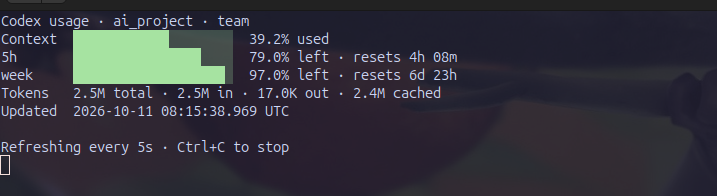
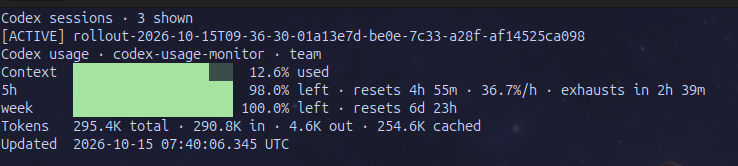
Add quota burn-rate forecasting

Changed region(s): [[0.0, 0.0602, 0.9512, 0.9036], [0.0, 0.6325, 0.0614, 0.6928], [0.0, 0.0, 0.0921, 0.0301]]

diff --git a/codex_usage.py b/codex_usage.py
@@ -9,6 +9,7 @@ import os
 import sys
 import time
 from dataclasses import asdict, dataclass
+from datetime import datetime
 from pathlib import Path
 from typing import Any, Iterable
 
@@ -19,6 +20,8 @@ class Window:
     used_percent: float
     window_minutes: int
     resets_at: int | None
+    burn_rate_percent_per_hour: float | None = None
+    estimated_exhaustion_at: int | None = None
 
     @property
     def remaining_percent(self) -> float:
@@ -69,11 +72,51 @@ def json_lines(path: Path) -> Iterable[dict[str, Any]]:
         return
 
 
+def timestamp_seconds(value: str | None) -> float | None:
+    if not value:
+        return None
+    try:
+        return datetime.fromisoformat(value.replace("Z", "+00:00")).timestamp()
+    except (ValueError, TypeError):
+        return None
+
+
+def burn_rate(
+    samples: list[tuple[float, float, int | None]],
+) -> tuple[float | None, int | None]:
+    """Estimate percentage points/hour and exhaustion time for one quota window."""
+    if len(samples) < 2:
+        return None, None
+    latest_time, latest_used, latest_reset = samples[-1]
+    previous = next(
+        (
+            sample
+            for sample in samples
+            if sample[2] == latest_reset
+            and sample[0] < latest_time
+            and sample[1] <= latest_used
+        ),
+        None,
+    )
+    if previous is None:
+        return None, None
+    elapsed_hours = (latest_time - previous[0]) / 3600
+    rate = (latest_used - previous[1]) / elapsed_hours
+    if rate <= 0:
+        return None, None
+    exhaustion_at = int(latest_time + (100.0 - latest_used) / rate * 3600)
+    return rate, exhaustion_at
+
+
 def usage_from_file(path: Path) -> Usage | None:
     project = None
     latest: dict[str, Any] | None = None
     observed_at = ""
     saw_session = False
+    rate_samples: dict[str, list[tuple[float, float, int | None]]] = {
+        "primary": [],
+        "secondary": [],
+    }
     for record in json_lines(path):
         payload = record.get("payload", {})
         if record.get("type") == "session_meta":
@@ -83,6 +126,18 @@ def usage_from_file(path: Path) -> Usage | None:
         if record.get("type") == "event_msg" and payload.get("type") == "token_count":
             latest = payload
             observed_at = record.get("timestamp", observed_at)
+            observed_seconds = timestamp_seconds(record.get("timestamp"))
+            if observed_seconds is not None:
+                for key in rate_samples:
+                    value = (payload.get("rate_limits") or {}).get(key)
+                    if value:
+                        rate_samples[key].append(
+                            (
+                                observed_seconds,
+                                float(value.get("used_percent") or 0),
+                                value.get("resets_at"),
+                            )
+                        )
     if latest is None and not saw_session:
         return None
 
@@ -106,12 +161,15 @@ def usage_from_file(path: Path) -> Usage | None:
             continue
         minutes = int(value.get("window_minutes") or 0)
         label = "5h" if minutes == 300 else "week" if minutes == 10080 else f"{minutes}m"
+        rate, exhaustion_at = burn_rate(rate_samples[key])
         windows.append(
             Window(
                 label=label,
                 used_percent=float(value.get("used_percent") or 0),
                 window_minutes=minutes,
                 resets_at=value.get("resets_at"),
+                burn_rate_percent_per_hour=rate,
+                estimated_exhaustion_at=exhaustion_at,
             )
         )
     return Usage(
@@ -163,6 +221,15 @@ def countdown(timestamp: int | None, now: float | None = None) -> str:
     return f"{days}d {hours}h" if days else f"{hours}h {minutes:02d}m"
 
 
+def forecast(window: Window, now: float | None = None) -> str | None:
+    if window.burn_rate_percent_per_hour is None or window.estimated_exhaustion_at is None:
+        return None
+    rate = window.burn_rate_percent_per_hour
+    if window.resets_at and window.estimated_exhaustion_at >= window.resets_at:
+        return f"{rate:.1f}%/h · pace lasts to reset"
+    return f"{rate:.1f}%/h · exhausts in {countdown(window.estimated_exhaustion_at, now)}"
+
+
 def human_tokens(value: int) -> str:
     if value >= 1_000_000:
         return f"{value / 1_000_000:.1f}M"
@@ -180,9 +247,11 @@ def render(usage: Usage, ansi: bool = True) -> str:
             f"Context  {bar(remaining, ansi=ansi)} {usage.context_used_percent:5.1f}% used"
         )
     for window in usage.windows:
+        projection = forecast(window)
         lines.append(
             f"{window.label:<8} {bar(window.remaining_percent, ansi=ansi)} "
             f"{window.remaining_percent:5.1f}% left · resets {countdown(window.resets_at)}"
+            + (f" · {projection}" if projection else "")
         )
     lines.append(
         "Tokens   "

diff --git a/tests/test_codex_usage.py b/tests/test_codex_usage.py
@@ -7,6 +7,7 @@ from codex_usage import (
     all_usages,
     compact_status,
     countdown,
+    forecast,
     latest_usage,
     project_summary,
     render_overview,
@@ -107,6 +108,41 @@ class UsageTests(unittest.TestCase):
 
     def test_countdown(self):
         self.assertEqual(countdown(10_000, now=1_000), "2h 30m")
+
+    def test_forecasts_quota_exhaustion_from_rate_snapshots(self):
+        self.write_records([
+            {
+                "timestamp": "2026-10-11T09:00:00Z",
+                "type": "event_msg",
+                "payload": {"type": "token_count", "info": {}, "rate_limits": {
+                    "primary": {"used_percent": 20, "window_minutes": 300, "resets_at": 1_791_730_000}
+                }},
+            },
+            {
+                "timestamp": "2026-10-11T10:00:00Z",
+                "type": "event_msg",
+                "payload": {"type": "token_count", "info": {}, "rate_limits": {
+                    "primary": {"used_percent": 40, "window_minutes": 300, "resets_at": 1_791_730_000}
+                }},
+            },
+        ])
+        window = usage_from_file(self.file).windows[0]
+        self.assertEqual(window.burn_rate_percent_per_hour, 20)
+        self.assertEqual(window.estimated_exhaustion_at, 1_791_723_600)
+        self.assertIn("20.0%/h", forecast(window, now=1_791_712_800))
+
+    def test_does_not_forecast_across_quota_resets(self):
+        self.write_records([
+            {"timestamp": "2026-10-11T09:00:00Z", "type": "event_msg", "payload": {
+                "type": "token_count", "info": {}, "rate_limits": {"primary": {
+                    "used_percent": 90, "window_minutes": 300, "resets_at": 100
+                }}}},
+            {"timestamp": "2026-10-11T10:00:00Z", "type": "event_msg", "payload": {
+                "type": "token_count", "info": {}, "rate_limits": {"primary": {
+                    "used_percent": 5, "window_minutes": 300, "resets_at": 200
+                }}}},
+        ])
+        self.assertIsNone(usage_from_file(self.file).windows[0].burn_rate_percent_per_hour)
 
     def test_lists_multiple_sessions_newest_first(self):
         self.write_records([

diff --git a/README.md b/README.md
@@ -22,6 +22,7 @@ Long-running agentic coding sessions make it easy to lose track of context press
 - **Multi-session observability** — monitor every recent Codex session in one view
 - **Quota intelligence** — remaining five-hour and weekly capacity at a glance
 - **Reset forecasting** — countdowns show when each window renews
+- **Burn-rate forecasting** — estimates quota consumption speed and warns when the current pace exhausts a window before reset
 - **Token analytics** — total, input, output, and cached token counters
 - **Developer-native UX** — snapshots, watch mode, colors, and JSON output
 - **Privacy by design** — local, read-only processing with no telemetry upload
@@ -84,6 +85,10 @@ Customize the refresh interval and low-quota alert:
 ```bash
 python3 codex_usage.py watch --interval 2 --alert-below 15
 ```
+
+After two usage observations in the same quota window, detailed views also show
+the observed burn rate and whether that pace is projected to exhaust the quota
+before it resets. Forecasts remain blank until enough comparable data exists.
 
 Both `show` and `watch` display the 10 newest sessions. Show every recorded
 session, or tune how recently a session must have changed to count as active.
@@ -205,7 +210,7 @@ mapping, context calculation, and reset countdowns.
 ## Roadmap
 
 - [x] Per-project usage summaries
-- Burn-rate forecasting before quota exhaustion
+- [x] Burn-rate forecasting before quota exhaustion
 - macOS and Linux desktop notifications
 - [x] Shell prompt and tmux status output
 - [x] JSON exporter for developer productivity dashboards
